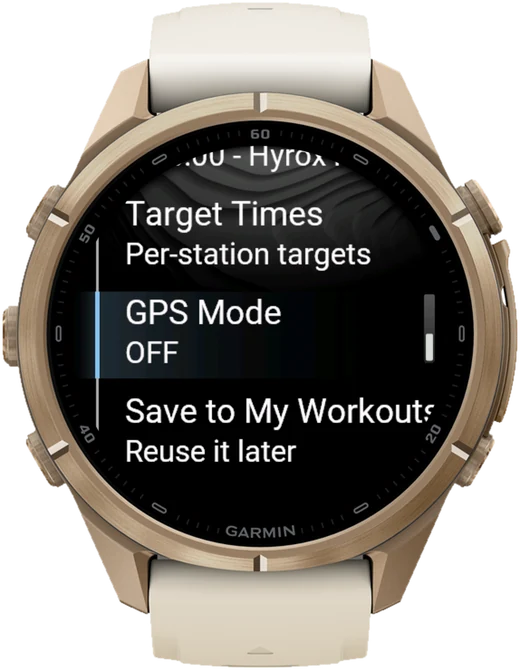
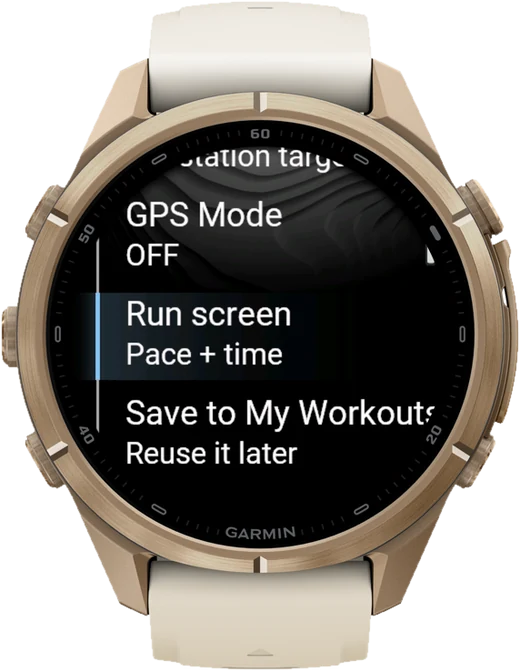
Guide: 5.2.5 run screen, LAP from the warm-up, No target
- New Run Screen section (after Warm-Up, in the contents): the four
  presets, where to set them, and two shots (Pace + time, the picker).
- Warm-up: LAP starts the race, START pauses with Start / Resume /
  Discard; session step 02 and the When to Press Lap start line updated.
- Review & Start menu step mentions the run screen; new menu shot.
- Run Pace: the No target option, new pace list shot.
- Main Workout Screen bullets: pace on runs, plan delta beside the total,
  zone-coloured heart. The labelled diagram itself is the owner's to remake.
- New shots from the golden fenix 9 Pro 43mm, English, ?v=525 on replaced files.

diff --git a/userguide/index.html b/userguide/index.html
@@ -110,6 +110,7 @@
               <li><a href="#gps-mode">GPS Mode (Outdoor)</a></li>
               <li><a href="#indoor-run">Indoor Run Pace &amp; Distance</a></li>
               <li><a href="#warm-up">Warm-Up</a></li>
+              <li><a href="#run-screen">Run Screen</a></li>
               <li><a href="#touchscreen">Touchscreen Lock</a></li>
               <li><a href="#review-start">Review &amp; Start</a></li>
               <li><a href="#station-targets">Station Targets</a></li>
@@ -587,10 +588,10 @@
               </div>
             </li>
             <li class="rz-flow__step">
-              <span class="rz-flow__shot"><img src="../assets/guide/05-warmup.webp" width="520" height="670" loading="lazy" decoding="async" alt="Warm-up timer at 0:12 with heart rate"></span>
+              <span class="rz-flow__shot"><img src="../assets/guide/05-warmup.webp?v=525" width="520" height="670" loading="lazy" decoding="async" alt="Warm-up timer at 4:12 with heart rate, LAP to START at the bottom"></span>
               <div class="rz-flow__text">
                 <p class="rz-flow__name"><span class="rz-flow__num">02</span>Warm up</p>
-                <p>Not part of your race time. Press <strong>SELECT</strong> when you are ready and the race clock starts.</p>
+                <p>Not part of your race time. Press <strong>LAP</strong> when you are ready and the race clock starts.</p>
               </div>
             </li>
             <li class="rz-flow__step">
@@ -643,10 +644,10 @@
                 </div>
               </li>
               <li class="rz-flow__step">
-                <span class="rz-flow__shot"><img src="../assets/guide/04-preview-menu-b.webp" width="520" height="670" loading="lazy" decoding="async" alt="Workout menu scrolled down to GPS Mode and Save to My Workouts"></span>
+                <span class="rz-flow__shot"><img src="../assets/guide/04-preview-menu-b.webp?v=525" width="520" height="670" loading="lazy" decoding="async" alt="Workout menu scrolled down to GPS Mode, Run screen and Save to My Workouts"></span>
                 <div class="rz-flow__text">
                   <p class="rz-flow__name"><span class="rz-flow__num">04</span>Before you go</p>
-                  <p>Switch on GPS, or save it to My Workouts.</p>
+                  <p>Switch on GPS, choose what runs show, or save it to My Workouts.</p>
                 </div>
               </li>
             </ol>
@@ -713,13 +714,14 @@
 <div class="manual-section" id="run-pace">
             <h3 class="manual-section__title">Run Pace</h3>
             <p>Set your expected pace per kilometre for every run leg in the session. ROXZONE uses this as your personal benchmark on every run - it powers all of your live pacing cues, from the bezel arc to the run data readouts, so a single glance tells you whether you're on track to hit your split. During any run segment, press <strong>Down</strong> to bring up that screen.</p>
+            <p>Rather run without a target? Pick <strong>No target</strong> at the top of the list. Runs then show progress only, never green or red, and a Race Plan still sets its own targets.</p>
             <div class="rz-pair">
               <figure>
                 <span class="rz-flow__shot"><img src="../assets/guide/25-pace-row.webp" width="520" height="670" loading="lazy" decoding="async" alt="Setup menu: Set Target Pace 05:00/km, Roxzone on"></span>
                 <figcaption>Set Target Pace</figcaption>
               </figure>
               <figure>
-                <span class="rz-flow__shot"><img src="../assets/guide/26-pace-list.webp" width="520" height="670" loading="lazy" decoding="async" alt="Pace list with 5:00 selected between 4:55 and 5:05"></span>
+                <span class="rz-flow__shot"><img src="../assets/guide/26-pace-list.webp?v=525" width="520" height="670" loading="lazy" decoding="async" alt="Pace list with No target at the top, then 3:00"></span>
                 <figcaption>Pick a pace per km</figcaption>
               </figure>
             </div>
@@ -789,8 +791,40 @@
 <div class="manual-section" id="warm-up">
             <h3 class="manual-section__title">Warm-Up</h3>
             <p>When Warm-Up is enabled (the default), ROXZONE opens a dedicated warm-up timer screen before your race or session begins. Your warm-up time is saved as a separate lap in Garmin Connect so it never inflates your actual workout time or splits.</p>
-            <p>You can pause and resume the warm-up freely, or save it early when you're ready to begin. To start your session without a warm-up phase at all, turn the toggle off - the workout begins immediately.</p>
+            <p>Press <strong>LAP</strong> to end the warm-up and start the race, the same button that moves you on all session. <strong>START</strong> pauses the warm-up and opens a short menu: <strong>Start</strong> begins the race, <strong>Resume</strong> carries on warming up, and <strong>Discard</strong> leaves the warm-up and takes you back to Review &amp; Start. To start your session without a warm-up phase at all, turn the toggle off - the workout begins immediately.</p>
+            <div class="rz-pair">
+              <figure>
+                <span class="rz-flow__shot"><img src="../assets/guide/05-warmup.webp?v=525" width="520" height="670" loading="lazy" decoding="async" alt="Warm-up timer at 4:12 with heart rate, LAP to START at the bottom"></span>
+                <figcaption>LAP starts the race</figcaption>
+              </figure>
+              <figure>
+                <span class="rz-flow__shot"><img src="../assets/guide/05b-warmup-menu.webp" width="520" height="670" loading="lazy" decoding="async" alt="Warm-up menu: Start, Resume"></span>
+                <figcaption>START pauses it</figcaption>
+              </figure>
+            </div>
             <p>If you have GPS Mode on, keep Warm-Up enabled - it gives the GPS time to acquire a strong fix before your first run leg, which meaningfully improves early distance accuracy.</p>
+          </div>
+
+<div class="manual-section" id="run-screen">
+            <h3 class="manual-section__title">Run Screen</h3>
+            <p>Choose what the main screen shows while you run. <strong>Pace + time</strong> is the default: your live pace on the left, the run's time on the right.</p>
+            <ul>
+              <li><strong>Pace + time</strong> - live pace per km and the time on this run.</li>
+              <li><strong>Pace + distance</strong> - live pace and the distance covered on this run.</li>
+              <li><strong>Distance + time</strong> - distance covered and the time on this run.</li>
+              <li><strong>Time</strong> - the run's time as one big number.</li>
+            </ul>
+            <p>Set it with <strong>Run screen</strong> in the workout settings, or on Review &amp; Start: press <strong>MENU</strong> (press and hold the screen on two-button watches) and pick <strong>Run screen</strong>. It is one setting for every workout, indoors and out, and stations and Roxzones keep their usual screen.</p>
+            <div class="rz-pair">
+              <figure>
+                <span class="rz-flow__shot"><img src="../assets/guide/28-run-screen.webp" width="520" height="670" loading="lazy" decoding="async" alt="Run 2, pace 5:12 and timer 3:58 side by side, 0:08 ahead of plan"></span>
+                <figcaption>Pace + time</figcaption>
+              </figure>
+              <figure>
+                <span class="rz-flow__shot"><img src="../assets/guide/27-run-screen-picker.webp" width="520" height="670" loading="lazy" decoding="async" alt="Run screen choices: Time, Pace + time, Pace + distance"></span>
+                <figcaption>Pick what runs show</figcaption>
+              </figure>
+            </div>
           </div>
 
 <div class="manual-section" id="touchscreen">
@@ -967,7 +1001,7 @@
             </div>
 
             <ul class="lap-points">
-              <li><strong>Start:</strong> press START on the start line.</li>
+              <li><strong>Start:</strong> on the start line, press LAP on the warm-up screen, or SELECT on Review &amp; Start with Warm-Up off.</li>
               <li><strong>Finish:</strong> press Lap after your last Wall Ball. With Rox after on in Full Hyrox, press once more at the finish line.</li>
               <li><strong>Partial and Custom Hyrox</strong> have one Roxzone switch: on is 4 presses, off is 2.</li>
               <li><strong>Training?</strong> Use the same four spots every session.</li>
@@ -1002,9 +1036,9 @@
             </figure>
             <ul>
               <li><strong>Current segment name</strong> and station icon - always know exactly where you are in the workout.</li>
-              <li><strong>Segment elapsed time</strong> - how long you've been in the current run, station, or Roxzone transition.</li>
-<li><strong>Total workout time</strong> - full elapsed time from the moment the workout started.</li>
-              <li><strong>Heart rate</strong> with a colour-coded zone indicator - keep an eye on your aerobic load especially through stations.</li>
+              <li><strong>Segment time</strong> - how long you've been in the current station or Roxzone transition. On runs, live pace and the run's time sit side by side (see <a href="#run-screen">Run Screen</a>).</li>
+<li><strong>Total workout time</strong> - full elapsed time from the moment the workout started, with your ahead or behind beside it when a Race Plan is set.</li>
+              <li><strong>Heart rate</strong> with a colour-coded zone bar - the heart and the number take your current zone's colour, so you can read your aerobic load at a glance, especially through stations.</li>
               <li><strong>Bezel pacing arc</strong> - your at-a-glance run companion. Outdoors it follows your real distance and glows <strong>green</strong> when you're ahead of target pace, <strong>red</strong> when you've slipped behind. Indoors it advances steadily at your goal pace, warming to <strong>amber</strong> as you near your target split - your cue to start wrapping up and steer toward the station entrance rather than starting another loop - then turning <strong>red</strong> as you reach it. The arc is dedicated to your runs, keeping your station and transition screens clean and distraction-free.</li>
               <li><strong>Next segment indicator</strong> - a preview of what's coming up so you can mentally prepare for the transition.</li>
             </ul>
